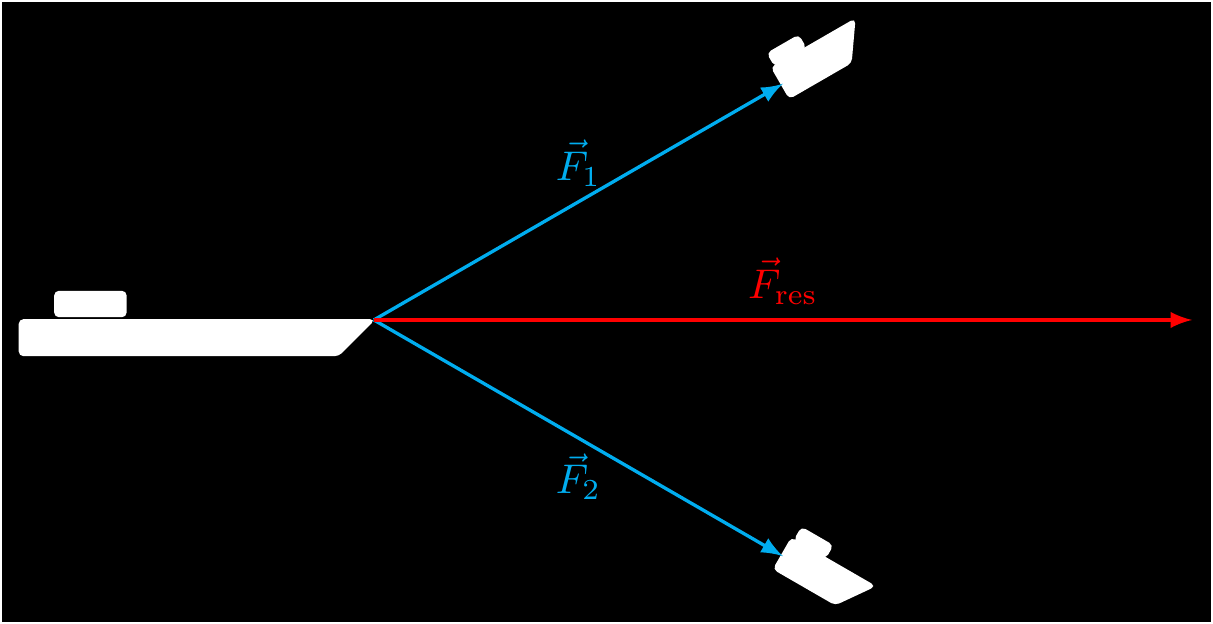
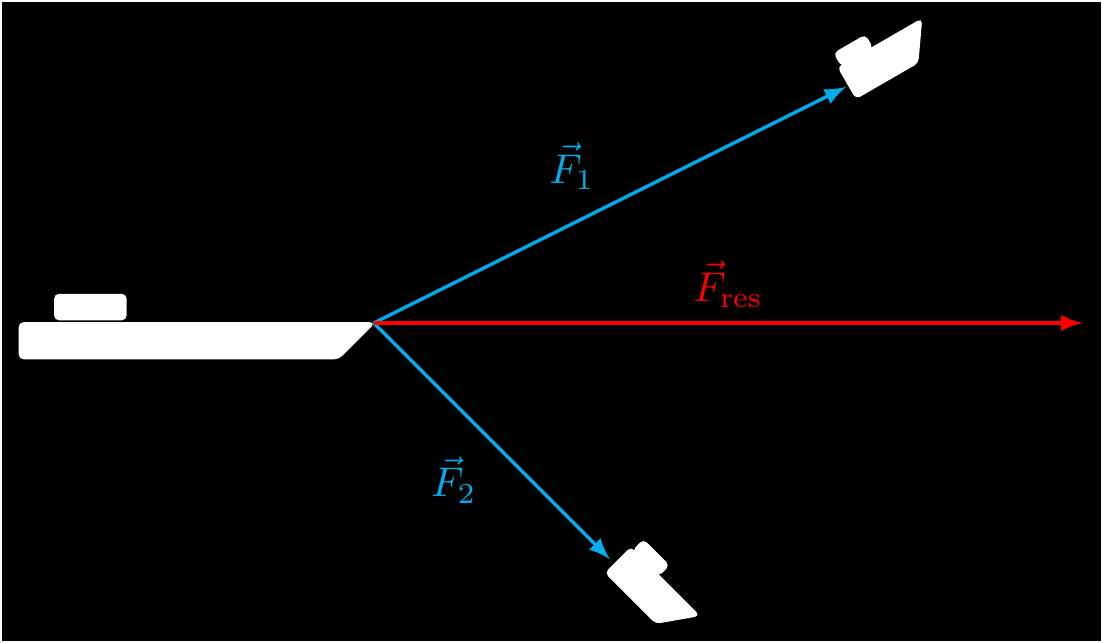
invert figure with ships

diff --git a/mechanics/ship-forces/ship-forces_inverted.tex b/mechanics/ship-forces/ship-forces_inverted.tex
@@ -31,11 +31,11 @@
 \begin{document}
 \begin{tikzpicture}[inverted,inverted]
   \bigship{(0,0)}{3}{0}
-  \smallship{(-28:4.8)}{0.6}{-30}
-  \smallship{(32:4.8)}{0.6}{30}
+  \smallship{(-42:3.7)}{0.6}{-45}
+  \smallship{(29:5.3)}{0.6}{30}
   % arrows
-  \draw[->, blue, thick] (0,0) -- node[above] {$\F_1$} (30:4) coordinate (F1);
-  \draw[->, blue, thick] (0,0) -- node[below] {$\F_2$} (-30:4) coordinate (F2);
+  \draw[->, blue, thick] (0,0) -- node[above left] {$\F_1$} (4,2) coordinate (F1);
+  \draw[->, blue, thick] (0,0) -- node[below left] {$\F_2$} (2,-2) coordinate (F2);
   \draw[->, red , thick] (0,0) -- node[above] {$\F_\text{res}$} ($(F1)+(F2)$);
 \end{tikzpicture}
 \end{document}

diff --git a/mechanics/ship-forces/ship-forces.tex b/mechanics/ship-forces/ship-forces.tex
@@ -22,11 +22,11 @@
 \begin{document}
 \begin{tikzpicture}
   \bigship{(0,0)}{3}{0}
-  \smallship{(-28:4.8)}{0.6}{-30}
-  \smallship{(32:4.8)}{0.6}{30}
+  \smallship{(-42:3.7)}{0.6}{-45}
+  \smallship{(29:5.3)}{0.6}{30}
   % arrows
-  \draw[->, blue, thick] (0,0) -- node[above] {$\F_1$} (30:4) coordinate (F1);
-  \draw[->, blue, thick] (0,0) -- node[below] {$\F_2$} (-30:4) coordinate (F2);
+  \draw[->, blue, thick] (0,0) -- node[above left] {$\F_1$} (4,2) coordinate (F1);
+  \draw[->, blue, thick] (0,0) -- node[below left] {$\F_2$} (2,-2) coordinate (F2);
   \draw[->, red , thick] (0,0) -- node[above] {$\F_\text{res}$} ($(F1)+(F2)$);
 \end{tikzpicture}
 \end{document}

diff --git a/mechanics.md b/mechanics.md
@@ -484,11 +484,11 @@
 \begin{document}
 \begin{tikzpicture}
   \bigship{(0,0)}{3}{0}
-  \smallship{(-28:4.8)}{0.6}{-30}
-  \smallship{(32:4.8)}{0.6}{30}
+  \smallship{(-42:3.7)}{0.6}{-45}
+  \smallship{(29:5.3)}{0.6}{30}
   % arrows
-  \draw[->, blue, thick] (0,0) -- node[above] {$\F_1$} (30:4) coordinate (F1);
-  \draw[->, blue, thick] (0,0) -- node[below] {$\F_2$} (-30:4) coordinate (F2);
+  \draw[->, blue, thick] (0,0) -- node[above left] {$\F_1$} (4,2) coordinate (F1);
+  \draw[->, blue, thick] (0,0) -- node[below left] {$\F_2$} (2,-2) coordinate (F2);
   \draw[->, red , thick] (0,0) -- node[above] {$\F_\text{res}$} ($(F1)+(F2)$);
 \end{tikzpicture}
 \end{document}
@@ -1420,11 +1420,11 @@
 \begin{document}
 \begin{tikzpicture}[inverted,inverted]
   \bigship{(0,0)}{3}{0}
-  \smallship{(-28:4.8)}{0.6}{-30}
-  \smallship{(32:4.8)}{0.6}{30}
+  \smallship{(-42:3.7)}{0.6}{-45}
+  \smallship{(29:5.3)}{0.6}{30}
   % arrows
-  \draw[->, blue, thick] (0,0) -- node[above] {$\F_1$} (30:4) coordinate (F1);
-  \draw[->, blue, thick] (0,0) -- node[below] {$\F_2$} (-30:4) coordinate (F2);
+  \draw[->, blue, thick] (0,0) -- node[above left] {$\F_1$} (4,2) coordinate (F1);
+  \draw[->, blue, thick] (0,0) -- node[below left] {$\F_2$} (2,-2) coordinate (F2);
   \draw[->, red , thick] (0,0) -- node[above] {$\F_\text{res}$} ($(F1)+(F2)$);
 \end{tikzpicture}
 \end{document}
